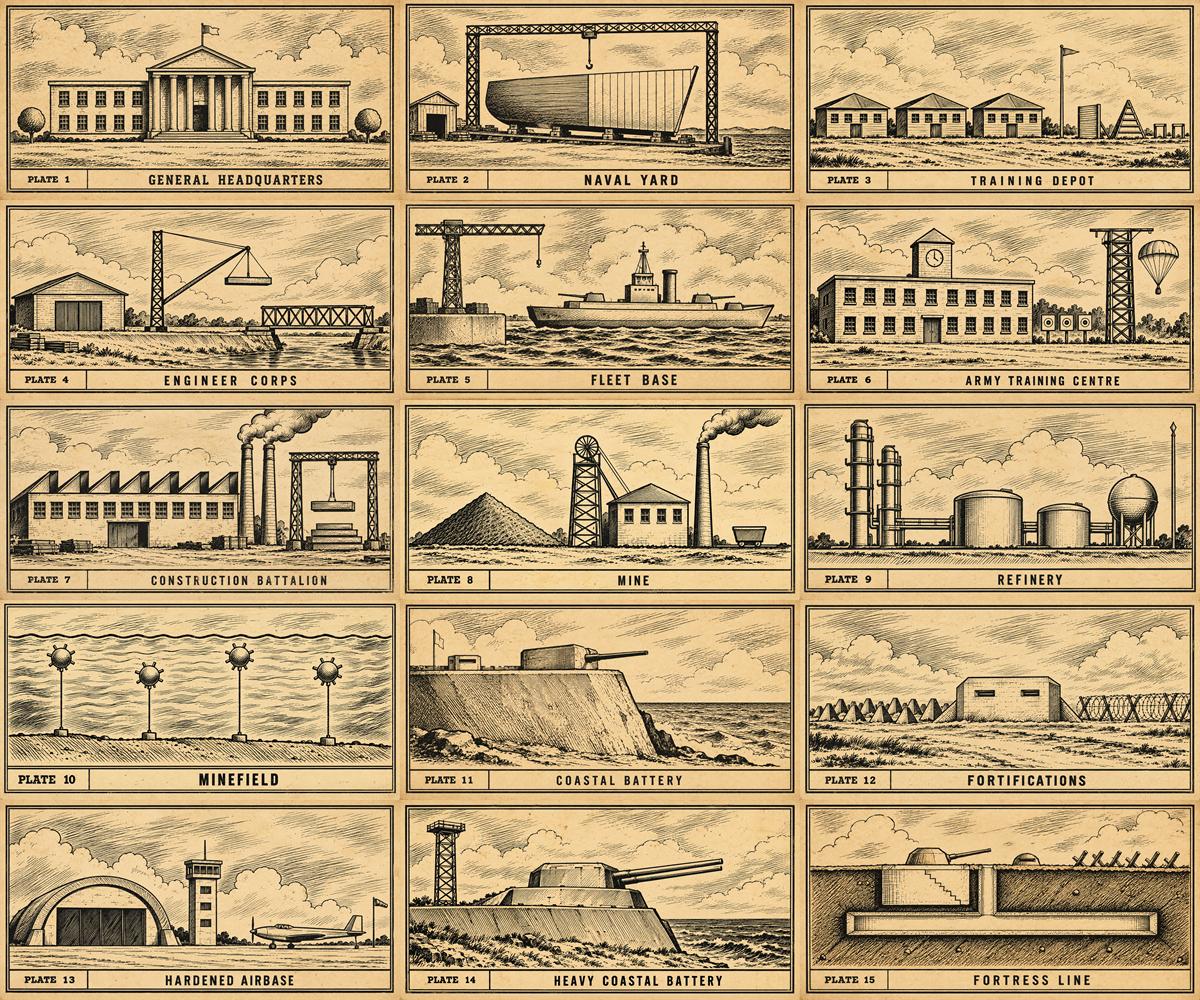
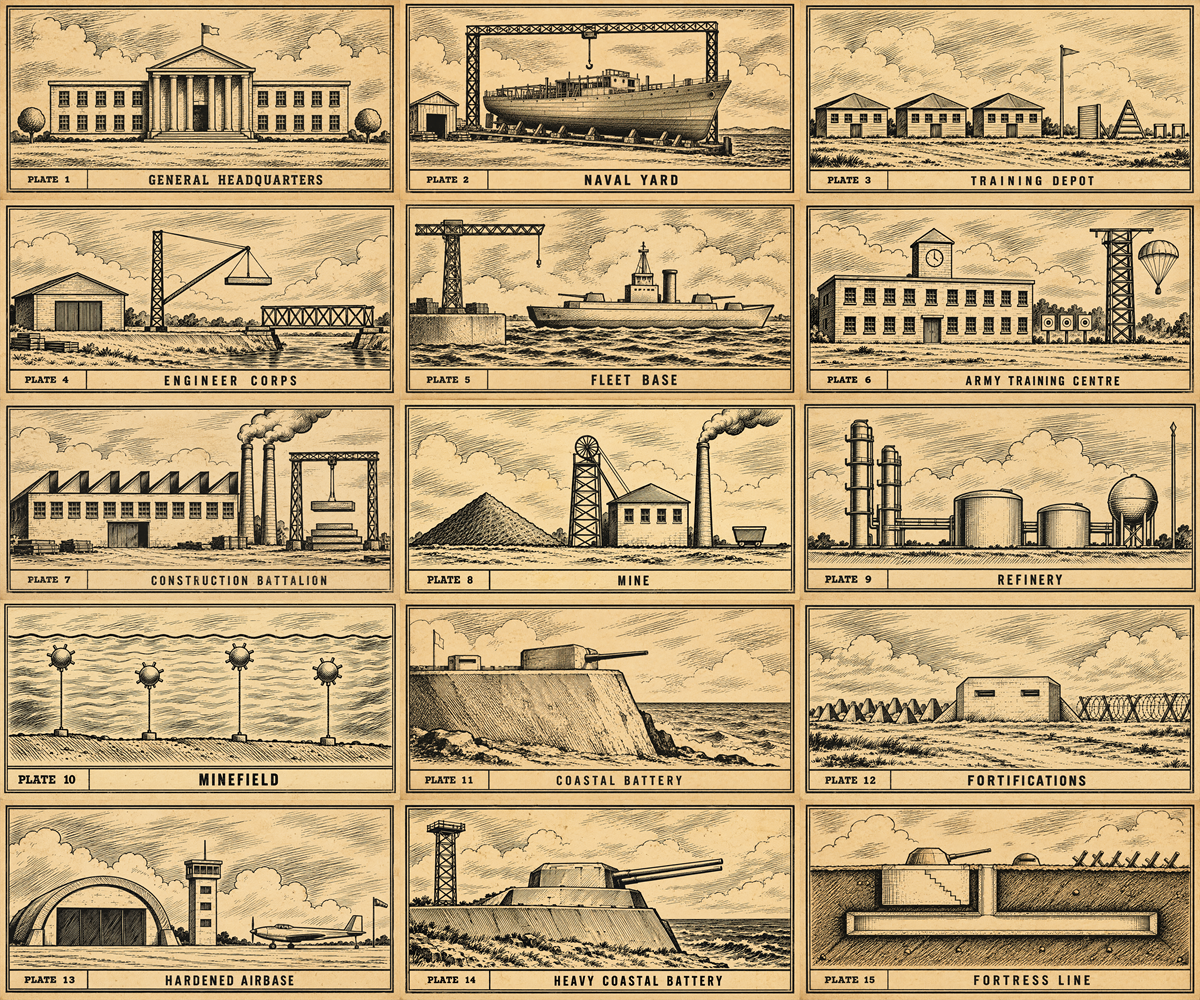
Improve naval yard ship hull and construction details

Changed region(s): [[0.4008, 0.062, 0.6167, 0.155]]

diff --git a/packs/ww2/art/facilities/joe-palooka-masters-2026-10-04/README.md b/packs/ww2/art/facilities/joe-palooka-masters-2026-10-04/README.md
@@ -14,3 +14,7 @@ Mechanical downsampling used System.Drawing HighQualityBicubic. Artistic edits w
 The existing tools/look/make_ww2_facilities.py generates the previous engineering-plate art and would overwrite these replacements if rerun. Use the saved game-size masters to restore this new set. Portraits and miniatures were outside this request and remain unchanged.
 
 Backup and master directories have .gdignore files to keep these archival copies out of Godot's resource imports.
+
+## Naval yard revision 2 (2026-10-04)
+
+Redrew the ship with a coherent curved steel hull, pointed bow, stern rudder, unfinished deckhouse, and slipway braces. First attempt preserved in revisions/shipyard-v1/. Current masters, game-size image, manifests and contact sheet updated. Exact revision prompt: shipyard-v2-generation.json.
